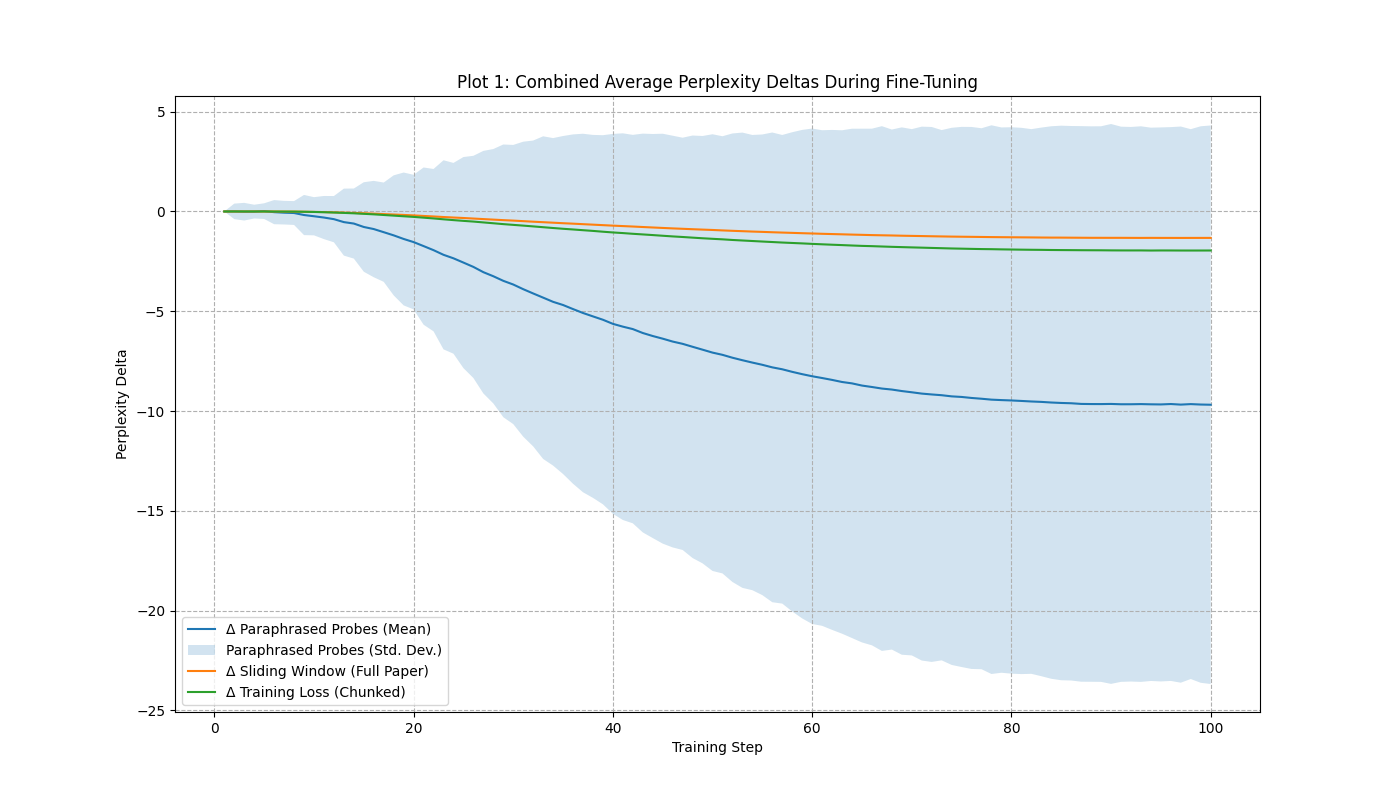
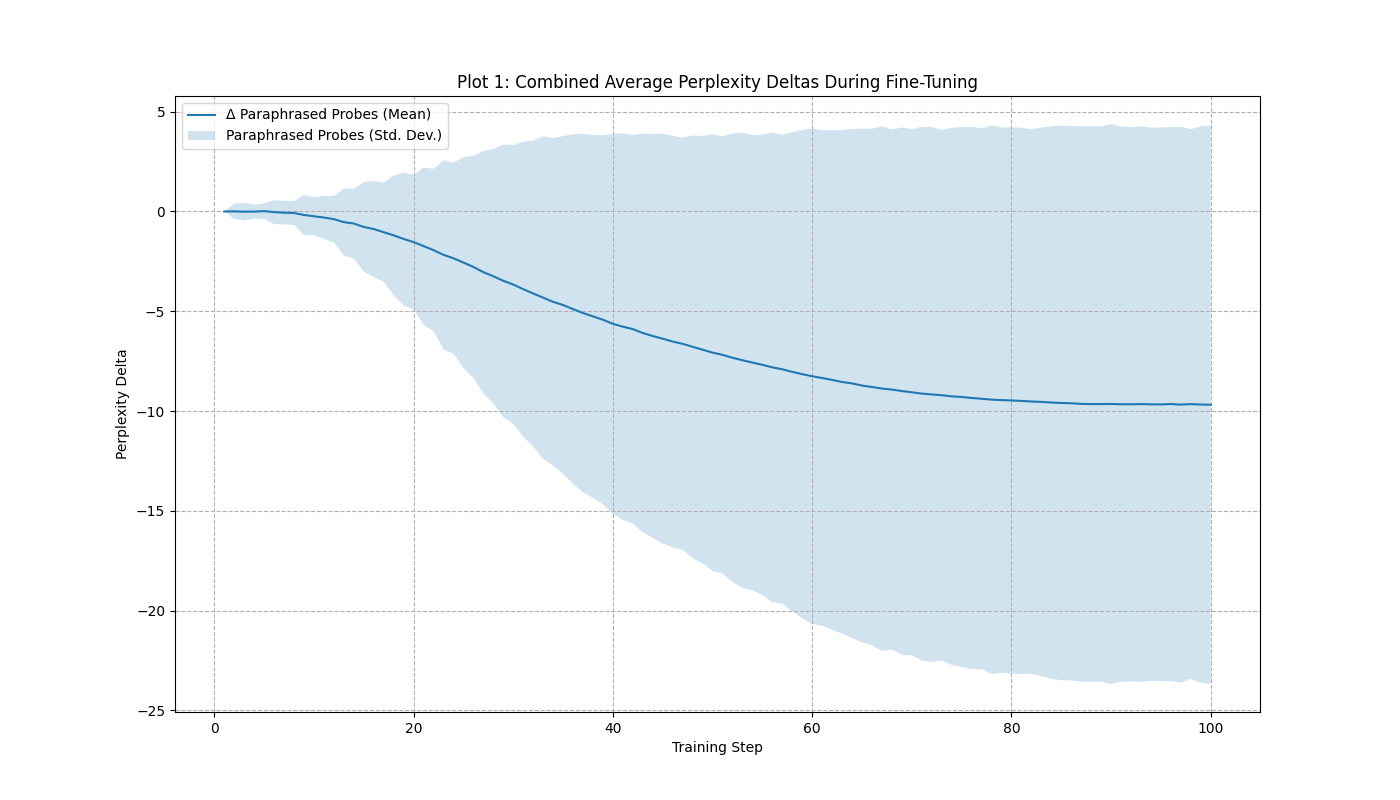
changed csv saving from long to wide format; correspondingly adjusted plotting

Changed region(s): [[0.1843, 0.25, 0.86, 0.3125], [0.1229, 0.7812, 0.3071, 0.875], [0.1229, 0.125, 0.3071, 0.1875]]

diff --git a/utils/llm_plotting.py b/utils/llm_plotting.py
@@ -5,12 +5,7 @@ import os
 
 def generate_plots_from_files(output_dir: str, logger=None):
     """
-    Generates all plots from the saved CSV files.
-
-    Args:
-        output_dir (str): The directory where the metric CSV files are located 
-                          and where the plots will be saved.
-        logger: A logger object for logging information.
+    Generates all plots from the saved CSV files in wide format.
     """
     def log_info(msg):
         if logger:
@@ -32,25 +27,7 @@ def generate_plots_from_files(output_dir: str, logger=None):
     corpus_results_df = pd.read_csv(corpus_ppl_path) if os.path.exists(corpus_ppl_path) else pd.DataFrame()
     training_loss_results_df = pd.read_csv(training_loss_path) if os.path.exists(training_loss_path) else pd.DataFrame()
 
-    # --- Data Preparation ---
-    raw_df = metrics_df[metrics_df['paraphrase_variant'].isna()].copy()
-    paraphrased_df = metrics_df[metrics_df['paraphrase_variant'].notna()].copy()
-    
-    if not raw_df.empty:
-        # Calculate initial perplexity for each probe_index at the first step it appears
-        initial_raw_ppl = raw_df.sort_values('step').groupby('probe_index')['raw_knowledge_perplexity'].first()
-        # Merge initial perplexity back to calculate delta
-        raw_df = pd.merge(raw_df, initial_raw_ppl.rename('initial_perplexity'), on='probe_index')
-        raw_df['raw_knowledge_perplexity_delta'] = raw_df['raw_knowledge_perplexity'] - raw_df['initial_perplexity']
-
-
-    if not paraphrased_df.empty:
-        # Same for paraphrased
-        initial_paraphrased_ppl = paraphrased_df.sort_values('step').groupby(['probe_index', 'paraphrase_variant'])['raw_knowledge_perplexity'].first()
-        paraphrased_df = pd.merge(paraphrased_df, initial_paraphrased_ppl.rename('initial_perplexity'), on=['probe_index', 'paraphrase_variant'])
-        paraphrased_df['raw_knowledge_perplexity_delta'] = paraphrased_df['raw_knowledge_perplexity'] - paraphrased_df['initial_perplexity']
-
-
+    # --- Data Preparation for Deltas ---
     if not corpus_results_df.empty:
         initial_corpus_ppl = corpus_results_df['corpus_perplexity'].iloc[0]
         corpus_results_df['corpus_perplexity_delta'] = corpus_results_df['corpus_perplexity'] - initial_corpus_ppl
@@ -60,24 +37,34 @@ def generate_plots_from_files(output_dir: str, logger=None):
         training_loss_results_df['chunked_perplexity_delta'] = training_loss_results_df['chunked_perplexity'] - initial_chunked_ppl
 
     # --- Plotting Setup ---
-    all_sections = sorted(raw_df['section'].unique()) if not raw_df.empty else []
+    all_sections = sorted(metrics_df['section'].unique()) if not metrics_df.empty else []
     palette = sns.color_palette("husl", len(all_sections))
     section_colors = {section: color for section, color in zip(all_sections, palette)}
+
+    # Identify paraphrase columns
+    paraphrase_ppl_cols = [col for col in metrics_df.columns if 'raw_knowledge_perplexity_paraphrase_' in col]
+    paraphrase_delta_cols = [col for col in metrics_df.columns if 'raw_knowledge_perplexity_delta_paraphrase_' in col]
 
     # --- PLOT 1: Combined Perplexity Deltas ---
     log_info("Generating Plot 1: Combined Perplexity Deltas...")
     plt.figure(figsize=(14, 8))
-    
-    if not raw_df.empty:
-        avg_raw_ppl_delta = raw_df.groupby('step')['raw_knowledge_perplexity_delta'].mean()
+
+    if 'raw_knowledge_perplexity_delta' in metrics_df.columns:
+        avg_raw_ppl_delta = metrics_df.groupby('step')['raw_knowledge_perplexity_delta'].mean()
         sns.lineplot(x=avg_raw_ppl_delta.index, y=avg_raw_ppl_delta.values, label='Δ Knowledge Probes (Raw PPL)')
 
-    if not paraphrased_df.empty:
-        paraphrase_stats = paraphrased_df.groupby('step')['raw_knowledge_perplexity_delta'].agg(['mean', 'std'])
+    if paraphrase_delta_cols:
+        metrics_df['paraphrase_delta_mean'] = metrics_df[paraphrase_delta_cols].mean(axis=1)
+        metrics_df['paraphrase_delta_std'] = metrics_df[paraphrase_delta_cols].std(axis=1)
+        
+        paraphrase_stats = metrics_df.groupby('step').agg(
+            mean=('paraphrase_delta_mean', 'mean'),
+            std=('paraphrase_delta_std', 'mean') # Approx std of means
+        )
         sns.lineplot(data=paraphrase_stats, x='step', y='mean', label='Δ Paraphrased Probes (Mean)')
-        plt.fill_between(paraphrase_stats.index, 
-                         paraphrase_stats['mean'] - paraphrase_stats['std'], 
-                         paraphrase_stats['mean'] + paraphrase_stats['std'], 
+        plt.fill_between(paraphrase_stats.index,
+                         paraphrase_stats['mean'] - paraphrase_stats['std'],
+                         paraphrase_stats['mean'] + paraphrase_stats['std'],
                          alpha=0.2, label='Paraphrased Probes (Std. Dev.)')
 
     if not corpus_results_df.empty:
@@ -97,14 +84,15 @@ def generate_plots_from_files(output_dir: str, logger=None):
     log_info("Generating Plot 2: Raw vs. Paraphrased Perplexities...")
     plt.figure(figsize=(14, 8))
 
-    if not raw_df.empty:
-        avg_raw_ppl = raw_df.groupby('step')['raw_knowledge_perplexity'].mean()
+    if 'raw_knowledge_perplexity' in metrics_df.columns:
+        avg_raw_ppl = metrics_df.groupby('step')['raw_knowledge_perplexity'].mean()
         sns.lineplot(x=avg_raw_ppl.index, y=avg_raw_ppl.values, label='Raw Knowledge Probes', color='black', linewidth=2.5, zorder=5)
 
-    if not paraphrased_df.empty:
-        avg_paraphrased_ppl = paraphrased_df.groupby(['step', 'paraphrase_variant'])['raw_knowledge_perplexity'].mean().reset_index()
-        sns.lineplot(data=avg_paraphrased_ppl, x='step', y='raw_knowledge_perplexity', hue='paraphrase_variant', palette='viridis', alpha=0.7)
-    
+    if paraphrase_ppl_cols:
+        for i, col in enumerate(paraphrase_ppl_cols):
+            avg_paraphrased_ppl = metrics_df.groupby('step')[col].mean()
+            sns.lineplot(x=avg_paraphrased_ppl.index, y=avg_paraphrased_ppl.values, label=f'Paraphrase Variant {i}', alpha=0.7)
+
     plt.title('Plot 2: Raw vs. Paraphrased Knowledge Statement Perplexity')
     plt.xlabel('Training Step')
     plt.ylabel('Perplexity')
@@ -117,13 +105,14 @@ def generate_plots_from_files(output_dir: str, logger=None):
     log_info("Generating Plot 3: Perplexity Deltas by Section...")
     plt.figure(figsize=(12, 7))
 
-    if not raw_df.empty:
-        avg_by_section = raw_df.groupby(['step', 'section'])['raw_knowledge_perplexity_delta'].mean().reset_index()
+    if 'raw_knowledge_perplexity_delta' in metrics_df.columns:
+        avg_by_section = metrics_df.groupby(['step', 'section'])['raw_knowledge_perplexity_delta'].mean().reset_index()
         sns.lineplot(data=avg_by_section, x='step', y='raw_knowledge_perplexity_delta', hue='section', palette=section_colors, hue_order=all_sections)
-    
-    if not paraphrased_df.empty:
-        avg_paraphrased_ppl_delta = paraphrased_df.groupby('step')['raw_knowledge_perplexity_delta'].mean()
-        sns.lineplot(x=avg_paraphrased_ppl_delta.index, y=avg_paraphrased_ppl_delta.values, color='gray', linestyle='--', label='Avg. Paraphrased')
+
+    if paraphrase_delta_cols:
+        # Calculate the mean of the paraphrase deltas for each row
+        avg_paraphrased_ppl_delta = metrics_df.groupby('step')[paraphrase_delta_cols].mean().mean(axis=1)
+        sns.lineplot(x=avg_paraphrased_ppl_delta.index, y=avg_paraphrased_ppl_delta.values, color='gray', linestyle='--', label='Avg. Paraphrased Delta')
 
     plt.title('Plot 3: Raw Knowledge Perplexity Delta by Section vs. Avg. Paraphrased Delta')
     plt.xlabel('Training Step')

diff --git a/utils/llm_callbacks.py b/utils/llm_callbacks.py
@@ -189,59 +189,70 @@ class BaseKnowledgeProbeCallback(TrainerCallback):
         return pd.concat(all_variants_df, ignore_index=True) if all_variants_df else pd.DataFrame()
 
     def save_results(self, output_dir: str):
-        """Saves all collected raw and delta metrics to a single CSV file."""
+        """Saves all collected raw and delta metrics to a single CSV file in wide format."""
         os.makedirs(output_dir, exist_ok=True)
         print(f"{self.__class__.__name__}: Saving probe metrics to {output_dir}")
 
-        all_dfs = []
-        # Convert internal history to dataframes and save it locally.
+        # 1. Get all base metrics (original probes) and merge them
+        base_dfs = []
         for name, config in self.METRICS_CONFIG.items():
-            if not config.get('track_paraphrased'):
-                df = self._get_metric_df(name)
-                if not df.empty:
-                    all_dfs.append(df.rename(columns={config['value_col_name']: name}))
-                if config.get('track_delta'):
-                    delta_df = self._get_metric_df(name, is_delta=True)
-                    if not delta_df.empty:
-                        all_dfs.append(delta_df.rename(columns={f"{config['value_col_name']}_delta": f"{name}_delta"}))
-
-        merged_df = None
-        if all_dfs:
-            merged_df = all_dfs[0]
-            for df_to_merge in all_dfs[1:]:
-                merged_df = pd.merge(merged_df, df_to_merge, on=['step', 'probe_index', 'section'], how='outer')
-
-        # Convert internal paraphrased history to dataframes and save it locally.
-        paraphrased_dfs = []
-        paraphrased_names = [name for name, cfg in self.METRICS_CONFIG.items() if cfg.get('track_paraphrased')]
-        for name in paraphrased_names:
-            config = self.METRICS_CONFIG[name]
-            df = self._get_paraphrased_metric_df(name)
+            value_col = config['value_col_name']
+            df = self._get_metric_df(name)
             if not df.empty:
-                paraphrased_dfs.append(df.rename(columns={config['value_col_name']: name}))
-            if config.get('track_delta'):
-                delta_df = self._get_paraphrased_metric_df(name, is_delta=True)
-                if not delta_df.empty:
-                    paraphrased_dfs.append(delta_df.rename(columns={f"{config['value_col_name']}_delta": f"{name}_delta"}))
-        
-        # Merge all dataframes into a single dataframe.
-        if paraphrased_dfs:
-            merged_paraphrased_df = paraphrased_dfs[0]
-            for df_to_merge in paraphrased_dfs[1:]:
-                merged_paraphrased_df = pd.merge(merged_paraphrased_df, df_to_merge, on=['step', 'probe_index', 'section', 'paraphrase_variant'], how='outer')
+                base_dfs.append(df.rename(columns={value_col: name}))
             
-            if merged_df is not None:
-                merged_df = pd.merge(merged_df, merged_paraphrased_df, on=['step', 'probe_index', 'section'], how='outer')
-            else:
-                merged_df = merged_paraphrased_df
+            if config.get('track_delta'):
+                delta_df = self._get_metric_df(name, is_delta=True)
+                if not delta_df.empty:
+                    base_dfs.append(delta_df.rename(columns={f"{value_col}_delta": f"{name}_delta"}))
         
-        if merged_df is None or merged_df.empty:
+        if not base_dfs:
+            print(" > No base metrics to save.")
+            return
+
+        final_df = base_dfs[0]
+        for df_to_merge in base_dfs[1:]:
+            final_df = pd.merge(final_df, df_to_merge, on=['step', 'probe_index', 'section'], how='outer')
+
+        # 2. Get metrics for each paraphrase variant and merge into the final dataframe
+        paraphrase_names = [name for name, cfg in self.METRICS_CONFIG.items() if cfg.get('track_paraphrased')]
+        
+        for i in range(self.num_paraphrase_variants):
+            variant_dfs = []
+            for name in paraphrase_names:
+                config = self.METRICS_CONFIG[name]
+                value_col = config['value_col_name']
+                
+                # Get variant's value
+                history_list = self.paraphrased_history.get(name, [])
+                if i < len(history_list) and history_list[i]:
+                    df = self._build_df_from_history(history_list[i], value_col_name=value_col)
+                    if not df.empty:
+                        variant_dfs.append(df.rename(columns={value_col: f"{name}_paraphrase_{i}"}))
+
+                # Get variant's delta
+                if config.get('track_delta'):
+                    delta_history_list = self.paraphrased_delta_history.get(name, [])
+                    if i < len(delta_history_list) and delta_history_list[i]:
+                        delta_df = self._build_df_from_history(delta_history_list[i], value_col_name=f"{value_col}_delta")
+                        if not delta_df.empty:
+                            variant_dfs.append(delta_df.rename(columns={f"{value_col}_delta": f"{name}_delta_paraphrase_{i}"}))
+
+            if variant_dfs:
+                merged_variant_df = variant_dfs[0]
+                for df_to_merge in variant_dfs[1:]:
+                    merged_variant_df = pd.merge(merged_variant_df, df_to_merge, on=['step', 'probe_index', 'section'], how='outer')
+                
+                # Merge into the main dataframe
+                final_df = pd.merge(final_df, merged_variant_df, on=['step', 'probe_index', 'section'], how='left')
+        
+        if final_df.empty:
             print(" > No metrics to save.")
             return
 
         output_path = os.path.join(output_dir, f'{self.log_prefix}_metrics.csv')
-        merged_df.to_csv(output_path, index=False)
-        print(f" > Saved consolidated metrics to '{output_path}' with {len(merged_df)} rows.")
+        final_df.to_csv(output_path, index=False)
+        print(f" > Saved consolidated metrics to '{output_path}' with {len(final_df)} rows.")
 
 
 class RawKnowledgeProbeCallback(BaseKnowledgeProbeCallback):

diff --git a/scripts/FT/regenerate_plots.py b/scripts/FT/regenerate_plots.py
@@ -1,0 +1,42 @@
+import os
+import sys
+import argparse
+import logging
+
+# Add project root to path
+sys.path.append(os.path.abspath(os.path.join(os.path.dirname(__file__), '..', '..')))
+
+import utils.llm_plotting as llm_plotting
+
+def main():
+    """
+    Main function to regenerate plots from saved metrics.
+    """
+    parser = argparse.ArgumentParser(description="Regenerate plots from saved metrics.")
+    parser.add_argument(
+        "--results_dir",
+        type=str,
+        required=True,
+        help="Directory containing the metrics CSV files (e.g., raw_knowledge_probe_metrics.csv)."
+    )
+    args = parser.parse_args()
+
+    # --- Basic Configuration ---
+    logging.basicConfig(
+        level=logging.INFO,
+        format="%(asctime)s - %(levelname)s - [%(name)s] - %(message)s",
+        datefmt="%Y-%m-%d %H:%M:%S",
+    )
+    log = logging.getLogger(__name__)
+
+    if not os.path.isdir(args.results_dir):
+        log.error(f"Error: Directory not found at '{args.results_dir}'")
+        sys.exit(1)
+
+    # --- Generate Plots ---
+    log.info(f"Generating plots from data in '{args.results_dir}'")
+    llm_plotting.generate_plots_from_files(args.results_dir, logger=log)
+    log.info(f"Finished generating all plots. They are saved in '{args.results_dir}'")
+
+if __name__ == "__main__":
+    main()
